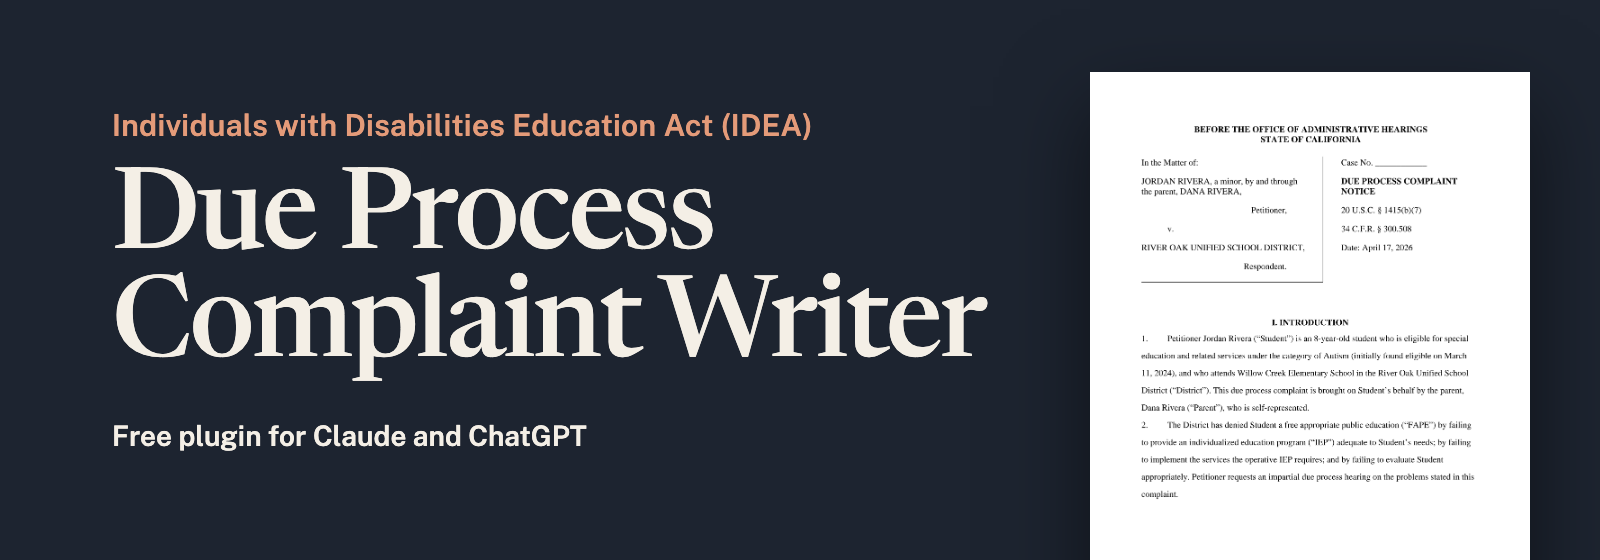
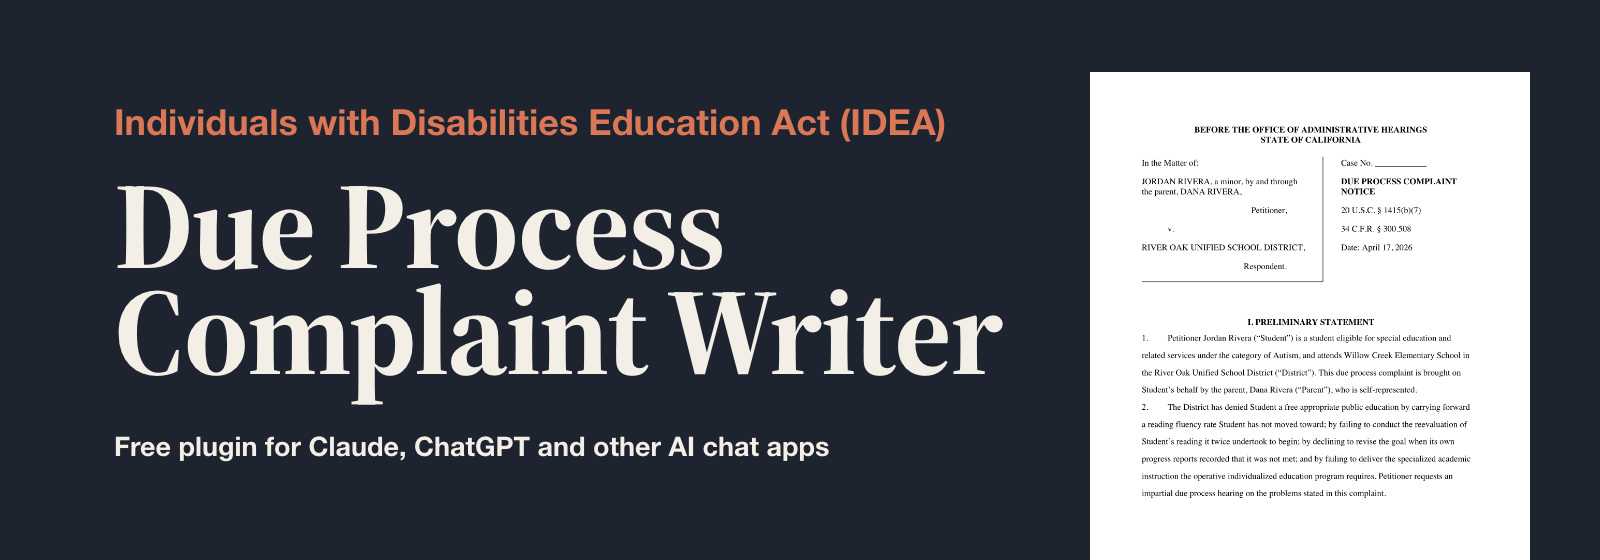
docs: the pictures showed last month's complaint, and three pages still said Claude and ChatGPT
Every picture that carries the worked example — the README header, the share
card GitHub uses when the repo is linked, and the first-page picture under the
opening paragraph — showed a page from before 2.0.0: "I. INTRODUCTION" over a
three-claim summary, where the complaint now opens "I. PRELIMINARY STATEMENT"
over four. Two of them also read "Free plugin for Claude and ChatGPT", and the
share card said the complaint comes in "Word and PDF formats to edit", which
has not been true since the Word file became the deliverable.

They went stale invisibly because nothing in the repository drew them, so
docs/images/make-images.mjs ships with them: it rasterizes page 1 of
examples/river-oak/complaint.pdf and redraws all three from it.

Also: the marketplace card and the citation abstract named Claude and ChatGPT
alone; "defences", "authorises", "licence" and "normalised" are American now,
a US legal filing being what this writes; and CITATION.cff carries the release
date and the changelog the test count it already had.

diff --git a/CHANGELOG.md b/CHANGELOG.md
@@ -107,13 +107,14 @@ Smaller things from the same work:
 - The renderer draws tables, bullet lists and checklists, and keeps a point and a half of slack in every column: pdf-lib measures a line from the standard-font metrics and a viewer draws it from its own, and the two disagree by up to about 1% — enough to put a long bold line past the right margin.
 - `references/review.md` is folded into `references/audit.md`.
 - Both worked examples are redrafted to the new form, with their review notes, their recomputed arithmetic, and the honest statement in each that no circuit authority was confirmed. Neither cites a case it did not verify.
-- The test suite is rewritten: 58 tests, each breaking one thing a model could plausibly get wrong, and 39 mutations of the new assertions were run against them. All 39 were killed.
+- The test suite is rewritten: 59 tests, each breaking one thing a model could plausibly get wrong, and 39 mutations of the new assertions were run against them. All 39 were killed.
+- **The three pictures that carry the example were redrawn**, and the script that draws them ships as `docs/images/make-images.mjs`. The README header, the share card and the first-page picture all showed a page from before this release — "I. INTRODUCTION", a three-claim summary — and two of them called this a plugin for Claude and ChatGPT alone. The share card also said the complaint comes in "Word and PDF formats to edit". They go stale whenever the worked example is redrafted, which is why the script is in the repository now.
 
 ## 1.0.18 — 2026-09-18
 
 - **What each claim turns on is written down, with its regulation** (`references/claims.md`), and the procedure reads it before recommending. Testing 1.0.17 on invented files found the rule sound but the legal reading loose: one run left out a transition claim because it measured the 16th birthday against the IEP meeting instead of the IEP's whole term, and another miscounted a records delay. The file states each claim's parts and the rules they rest on, each quoted from the regulation: transition services "not later than the first IEP to be in effect when the child turns 16"; records "in no case more than 45 days after the request has been made"; the 60-day initial evaluation; the 10-day manifestation determination; § 300.513(a)(2)'s three effects for a procedural claim.
 - **Something that did not happen is not, by itself, a fact for a claim.** A notice the person never received, or a reply that never came, supports a recommendation only where a document records it. The person can still add the claim themselves. This is the same rule the Sped DPC app applies.
-- **Claims are asked four to a question, in as many questions as it takes.** 1.0.17 said the four-option limit never limits claims, and one run read that as licence to print ten options in one message. Nothing is left out to fit, and nothing is crammed in.
+- **Claims are asked four to a question, in as many questions as it takes.** 1.0.17 said the four-option limit never limits claims, and one run read that as license to print ten options in one message. Nothing is left out to fit, and nothing is crammed in.
 - **For a procedural claim the person chooses, they are asked what it affected**, in their own words, into `statement.md`, because a hearing officer can find a denial of FAPE on a procedural violation only on one of those three effects.
 - `.codex-plugin/plugin.json` and `CITATION.cff` carry the version again; 1.0.17 bumped only the Claude manifest, so ChatGPT and Codex installs never received it.
 

diff --git a/examples/river-oak/complaint.md b/examples/river-oak/complaint.md
@@ -191,7 +191,7 @@ Self-represented (pro se)
 
 No Ninth Circuit decision is cited. None was confirmed in this session, and an unverified citation is worse than none. The California Education Code section was not opened either; it is cited without a subdivision, for the period only, and should be read before filing.
 
-### Adverse authority and expected defences
+### Adverse authority and expected defenses
 
 - The District will rely on its prior written notice of March 12, 2026 to argue the goal remains appropriate and that progress was being made. Claim A answers it from the three reports the notice itself relies on.
 - **The District will point to the accuracy half of the goal.** The January 23, 2026 report records 90% accuracy, which is the accuracy criterion the goal sets, and the same reporting period records Goal 2 as met. Claim A concedes the accuracy criterion and pleads the rate. Do not plead that Student made no progress at all.

diff --git a/examples/river-oak/review-notes.md b/examples/river-oak/review-notes.md
@@ -10,7 +10,7 @@
 
 No Ninth Circuit decision is cited. None was confirmed in this session, and an unverified citation is worse than none. The California Education Code section was not opened either; it is cited without a subdivision, for the period only, and should be read before filing.
 
-### Adverse authority and expected defences
+### Adverse authority and expected defenses
 
 - The District will rely on its prior written notice of March 12, 2026 to argue the goal remains appropriate and that progress was being made. Claim A answers it from the three reports the notice itself relies on.
 - **The District will point to the accuracy half of the goal.** The January 23, 2026 report records 90% accuracy, which is the accuracy criterion the goal sets, and the same reporting period records Goal 2 as met. Claim A concedes the accuracy criterion and pleads the rate. Do not plead that Student made no progress at all.

diff --git a/skills/due-process-complaint/SKILL.md b/skills/due-process-complaint/SKILL.md
@@ -42,7 +42,7 @@ You do not predict how the complaint will fare, in the document or in chat. No l
 case-strength, no "strong" or "weak" claim. Nothing on the complaint names the software.
 
 **Confidentiality.** Put on the complaint only the identifying information it requires or the person
-authorises. Never surface a name, address, date of birth or school from anywhere but this case's own
+authorizes. Never surface a name, address, date of birth or school from anywhere but this case's own
 documents and this conversation. Search the web for the district and the state's rules, never for the
 student. Where you draft a template rather than a case, use placeholders.
 

diff --git a/README.md b/README.md
@@ -343,7 +343,7 @@ skills/due-process-complaint/
 src/                     the scripts' source; build.mjs builds them
 examples/                two complete worked examples on invented documents
 tests/                   the tests
-docs/images/             the pictures on this page
+docs/images/             the pictures on this page; make-images.mjs redraws the three that carry the example
 CHANGELOG.md             what changed in each version
 STATES.md                where to file in each state: office, official page, contacts, time limit
 ```
